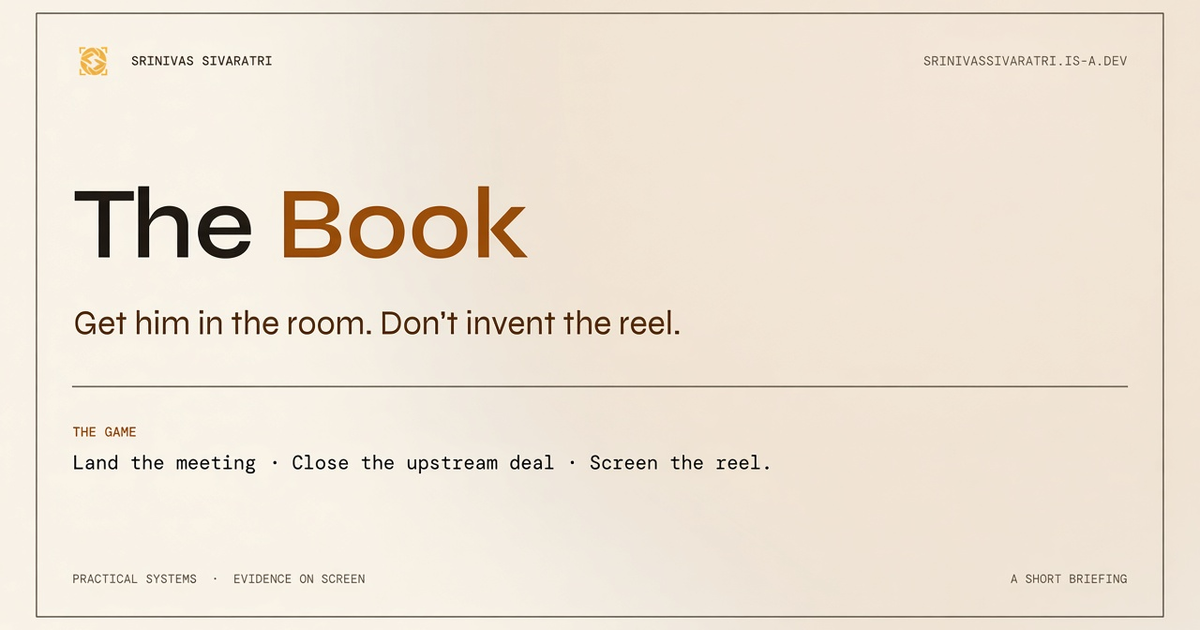
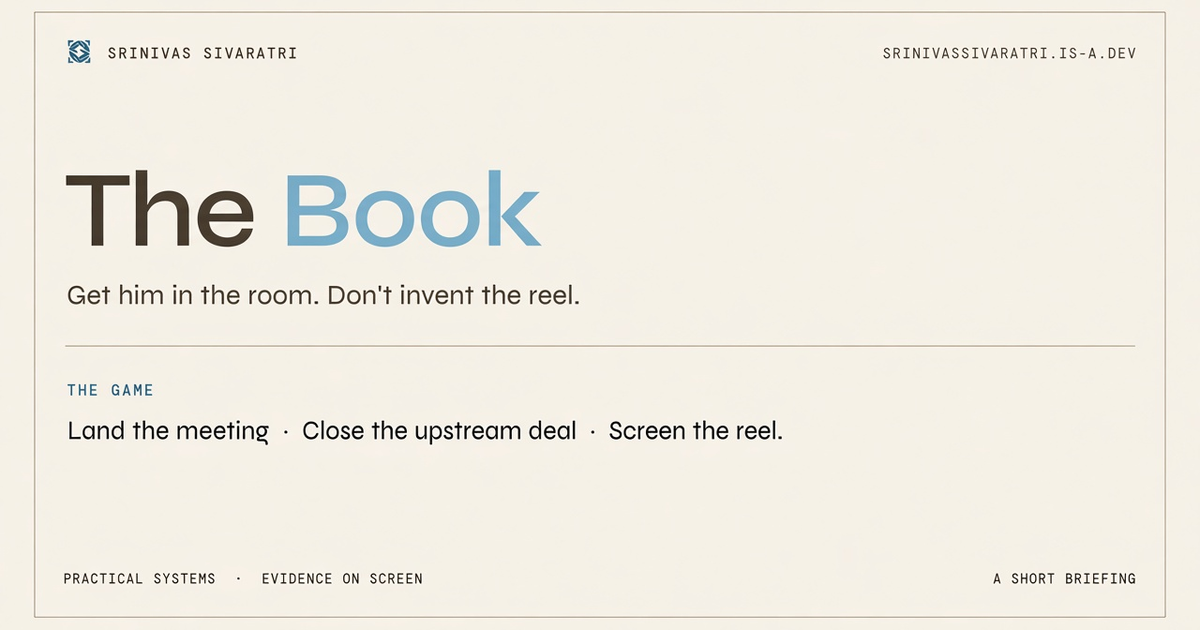
fix: inherit Soft daylight tokens on /game
Rebase onto GS-T37. Map game CSS to --color-* / --accent, align
theme-color with data-theme, and drop leftover ivory/amber hardcodes.

diff --git a/game/game.css b/game/game.css
@@ -30,12 +30,12 @@
     height: 3px;
     flex: 1;
     max-width: 4.5rem;
-    background: var(--line);
+    background: var(--color-line);
 }
 
 .game-progress span.is-done,
 .game-progress span.is-now {
-    background: var(--amber);
+    background: var(--accent);
 }
 
 .game-progress span.is-now {
@@ -57,7 +57,7 @@
     align-items: center;
     gap: 0.75rem;
     margin-bottom: 1.1rem;
-    color: var(--amber);
+    color: var(--accent);
     font-size: 0.7rem;
 }
 
@@ -66,12 +66,12 @@
     width: 7px;
     height: 7px;
     border-radius: 50%;
-    background: var(--amber);
+    background: var(--accent);
 }
 
 .game-stage h1 {
     max-width: 14ch;
-    color: var(--bone);
+    color: var(--color-text);
     font-size: clamp(2.4rem, 6vw, 5.4rem);
     font-weight: 500;
     letter-spacing: -0.04em;
@@ -82,7 +82,7 @@
 .agent-line {
     max-width: 46ch;
     margin-top: 1.25rem;
-    color: var(--muted);
+    color: var(--color-muted);
     font-size: clamp(1rem, 1.5vw, 1.22rem);
     line-height: 1.55;
 }
@@ -90,7 +90,7 @@
 .scene-prompt {
     max-width: 58ch;
     margin: 1.75rem 0 1rem;
-    color: var(--bone);
+    color: var(--color-text);
     font-family: var(--font-mono);
     font-size: 0.86rem;
     line-height: 1.6;
@@ -113,9 +113,9 @@
     width: 100%;
     min-height: 48px;
     padding: 0.95rem 1.05rem;
-    border: 1px solid var(--line);
-    color: var(--bone);
-    background: color-mix(in srgb, var(--surface) 55%, transparent);
+    border: 1px solid var(--color-line);
+    color: var(--color-text);
+    background: color-mix(in srgb, var(--color-surface) 55%, transparent);
     text-align: left;
     transition: border-color 180ms var(--ease-out), background 180ms var(--ease-out), color 180ms var(--ease-out);
 }
@@ -123,7 +123,7 @@
 .choice-key {
     flex-shrink: 0;
     min-width: 1.4rem;
-    color: var(--amber);
+    color: var(--accent);
     font-size: 0.7rem;
     line-height: 1.5;
 }
@@ -142,19 +142,19 @@
 .scene-continue:focus-visible,
 .play-cta:hover,
 .play-cta:focus-visible {
-    border-color: var(--amber);
-    background: var(--amber-wash);
+    border-color: var(--accent);
+    background: var(--accent-wash);
 }
 
 .choice.is-correct,
 .chip-toggle[aria-pressed="true"] {
-    border-color: var(--amber);
-    background: var(--amber-wash);
+    border-color: var(--accent);
+    background: var(--accent-wash);
 }
 
 .choice.is-wrong {
-    border-color: var(--line-bright);
-    color: var(--faint);
+    border-color: var(--color-line-bright);
+    color: var(--color-faint);
 }
 
 .choice:disabled,
@@ -170,12 +170,12 @@
     align-items: center;
     justify-content: center;
     min-height: 48px;
-    color: var(--faint);
+    color: var(--color-faint);
     font-size: 0.7rem;
 }
 
 .chip-toggle[aria-pressed="true"] {
-    color: var(--amber-soft);
+    color: var(--accent-strong);
 }
 
 .scene-actions {
@@ -193,8 +193,8 @@
     gap: 1.1rem;
     min-height: 48px;
     padding: 0.85rem 1rem;
-    border-color: var(--amber);
-    color: var(--amber-soft);
+    border-color: var(--accent);
+    color: var(--accent-strong);
     font-family: var(--font-mono);
     font-size: 0.7rem;
     letter-spacing: 0.08em;
@@ -205,15 +205,15 @@
 .play-cta:focus-visible,
 .scene-continue:hover,
 .scene-continue:focus-visible {
-    color: var(--bg);
-    background: var(--amber);
+    color: var(--color-bg);
+    background: var(--accent);
 }
 
 .locked-what {
     margin: 1.35rem 0 0.35rem;
     padding: 0.9rem 0;
-    border-top: 1px solid var(--line);
-    color: var(--faint);
+    border-top: 1px solid var(--color-line);
+    color: var(--color-faint);
     font-family: var(--font-mono);
     font-size: 0.75rem;
     line-height: 1.6;
@@ -222,7 +222,7 @@
 .locked-what strong {
     display: block;
     margin-bottom: 0.35rem;
-    color: var(--amber);
+    color: var(--accent);
     font-weight: 500;
     letter-spacing: 0.08em;
     text-transform: uppercase;
@@ -232,26 +232,26 @@
 .game-feedback {
     min-height: 1.5em;
     margin-top: 1rem;
-    color: var(--amber-soft);
+    color: var(--accent-strong);
     font-family: var(--font-mono);
     font-size: 0.78rem;
     line-height: 1.6;
 }
 
 .game-feedback.is-bad {
-    color: var(--muted);
+    color: var(--color-muted);
 }
 
 .game-keys {
     margin-top: 1.75rem;
-    color: var(--faint);
+    color: var(--color-faint);
     font-size: 0.7rem;
 }
 
 .dossier {
     min-width: 0;
     padding: 1.25rem 0 2rem;
-    border-top: 1px solid var(--line);
+    border-top: 1px solid var(--color-line);
     scroll-margin-top: calc(var(--header-offset, var(--header-height)) + 12px);
 }
 
@@ -266,7 +266,7 @@
 }
 
 .dossier-empty {
-    color: var(--faint);
+    color: var(--color-faint);
     font-family: var(--font-mono);
     font-size: 0.75rem;
     line-height: 1.6;
@@ -279,11 +279,11 @@
 
 .dossier-card {
     padding: 1rem 0 1.15rem;
-    border-bottom: 1px solid var(--line);
+    border-bottom: 1px solid var(--color-line);
 }
 
 .dossier-card h3 {
-    color: var(--bone);
+    color: var(--color-text);
     font-size: 1.15rem;
     font-weight: 500;
     letter-spacing: -0.03em;
@@ -292,14 +292,14 @@
 
 .dossier-card-meta {
     margin-top: 0.35rem;
-    color: var(--faint);
+    color: var(--color-faint);
     font-size: 0.7rem;
 }
 
 .dossier-card p strong {
     display: block;
     margin-bottom: 0.25rem;
-    color: var(--amber);
+    color: var(--accent);
     font-family: var(--font-mono);
     font-size: 0.7rem;
     font-weight: 500;
@@ -309,7 +309,7 @@
 
 .dossier-card p,
 .dossier-card li {
-    color: var(--muted);
+    color: var(--color-muted);
     font-family: var(--font-mono);
     font-size: 0.72rem;
     line-height: 1.65;

diff --git a/game/index.html b/game/index.html
@@ -6,7 +6,7 @@
     <meta name="viewport" content="width=device-width, initial-scale=1.0" />
     <meta name="description"
         content="A short career briefing for Srinivas Sivaratri. Land the meeting, close the upstream deals, screen the reel — using only what’s already on the site." />
-    <meta name="theme-color" content="#f7f1e6" />
+    <meta name="theme-color" content="#f4f0e6" />
     <meta property="og:type" content="website" />
     <meta property="og:url" content="https://srinivassivaratri.is-a.dev/game" />
     <meta property="og:title" content="The Book — Srinivas Sivaratri" />
@@ -31,7 +31,7 @@
             document.documentElement.setAttribute("data-theme", theme);
             document.documentElement.style.colorScheme = theme;
             var meta = document.querySelector('meta[name="theme-color"]');
-            if (meta) meta.setAttribute("content", theme === "dark" ? "#261c10" : "#f7f1e6");
+            if (meta) meta.setAttribute("content", theme === "dark" ? "#1b2228" : "#f4f0e6");
         })();
     </script>
 

diff --git a/css/style.css b/css/style.css
@@ -918,7 +918,7 @@ table.project-substance th {
 
 .footer-quiet:hover,
 .footer-quiet:focus-visible {
-    color: var(--amber-soft);
+    color: var(--accent-strong);
 }
 
 @keyframes title-in {

diff --git a/DESIGN.md b/DESIGN.md
@@ -51,7 +51,7 @@ The first visit follows `prefers-color-scheme`. After the header toggle is used,
 
 ## The game (`/game`)
 
-A separate route. The recruiter homepage does not change. Same daylight tokens, Syne / DM Mono, appearance toggle, and proof-chip language.
+A separate route. The recruiter homepage does not change. `/game` inherits Soft daylight from `css/style.css` (`--color-*`, `--accent`, dark via `data-theme`) — no second palette. Syne / DM Mono, appearance toggle, and proof-chip language stay shared.
 
 The page is a three-act briefing — land the meeting, close the upstream deals, screen the reel — that unlocks copy already on the main site. Chips are Live demo / Measured / CI only when the matching project card already carries them. Motion is optional; `prefers-reduced-motion` holds the stage still.
 
